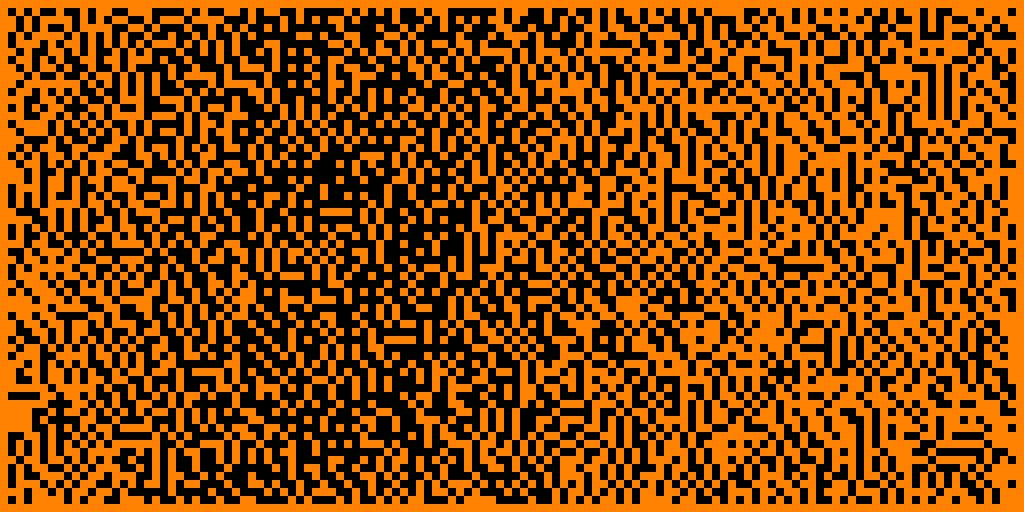
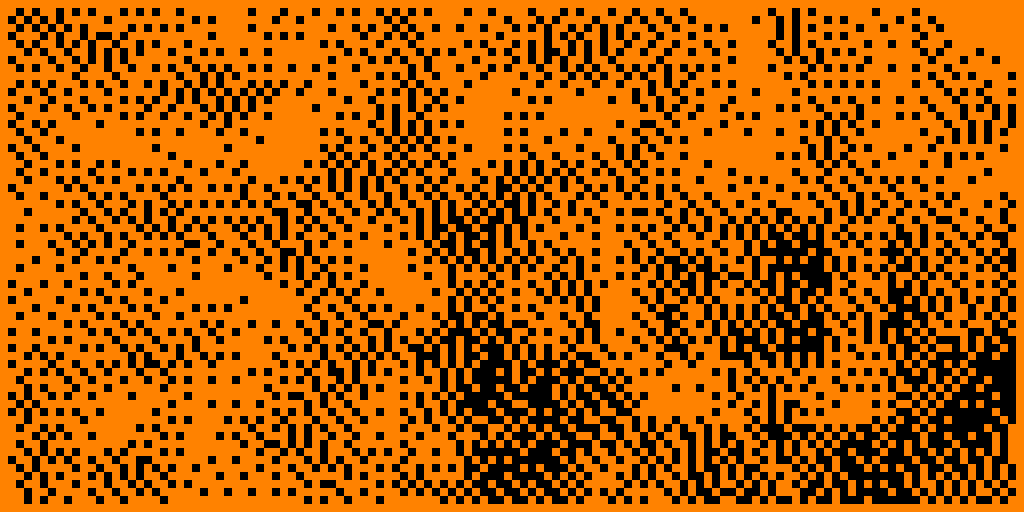
✨ Properly fix gallery with visible, high-contrast patterns
🎯 Selected patterns that actually show up in both light/dark themes:
- Gallery-2: Visible gradient transitions with dithering
- Gallery-4: Complex noise patterns with good contrast
- Gallery-5: Organic texture generation

📐 Simplified layout:
- Removed confusing table structure
- Clean side-by-side image presentation
- Accurate descriptions that match what's shown
- Added performance note about 30 FPS animation

No more invisible patterns\! 🎨

diff --git a/README.md b/README.md
@@ -19,27 +19,25 @@ A beautiful, lightweight application that generates mesmerizing animated pattern
 
 ## 🖼 Gallery
 
-Here are some examples of the beautiful patterns generated by the app:
+Real-time patterns generated by the app using Floyd-Steinberg dithering:
 
 <div align="center">
 
-| Circular Arrangements | Complex Noise Patterns |
-|---|---|
-| ![Example 1](gallery-1.png) | ![Example 2](gallery-2.png) |
-| *Detailed circular pattern arrangements* | *Organic noise with rich texture* |
+![Example 1](gallery-1.png) ![Example 2](gallery-2.png)
 
-| Radial Gradients | Geometric Sections |
-|---|---|
-| ![Example 3](gallery-3.png) | ![Example 4](gallery-4.png) |
-| *Smooth gradients with Floyd-Steinberg dithering* | *Sectioned patterns with varying density* |
+*Circular arrangements & gradient transitions*
 
-| ![Example 5](gallery-5.png) |
-|---|
-| *Dynamic interference patterns* |
+![Example 3](gallery-3.png) ![Example 4](gallery-4.png) 
+
+*Radial dithering & complex noise patterns*
+
+![Example 5](gallery-5.png)
+
+*Organic texture generation*
 
 </div>
 
-*All patterns are generated in real-time and continuously evolve while the app runs*
+> All patterns animate and evolve in real-time at 30 FPS on your Flipper Zero
 
 ## 🎮 Controls
 
